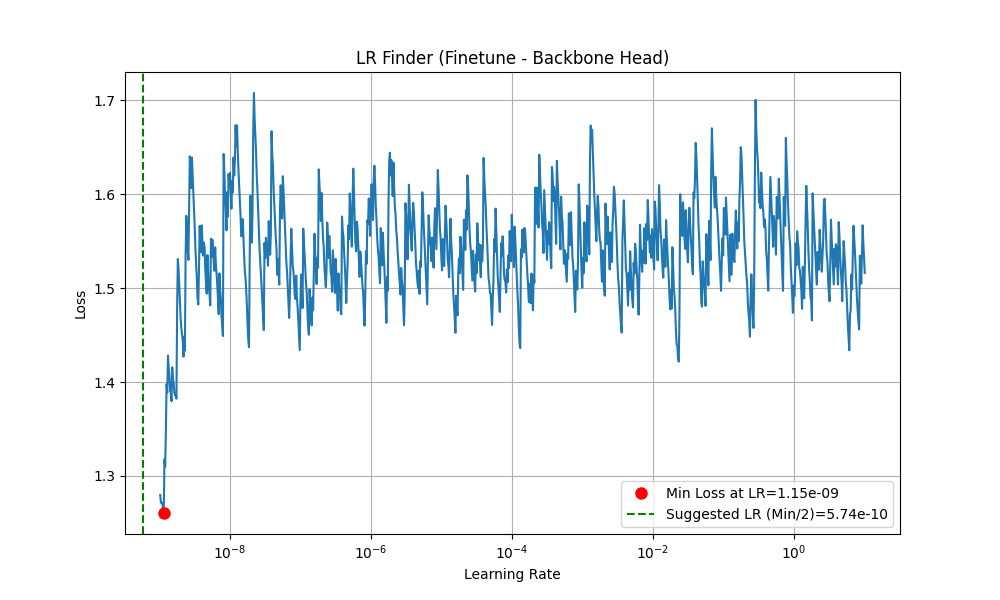
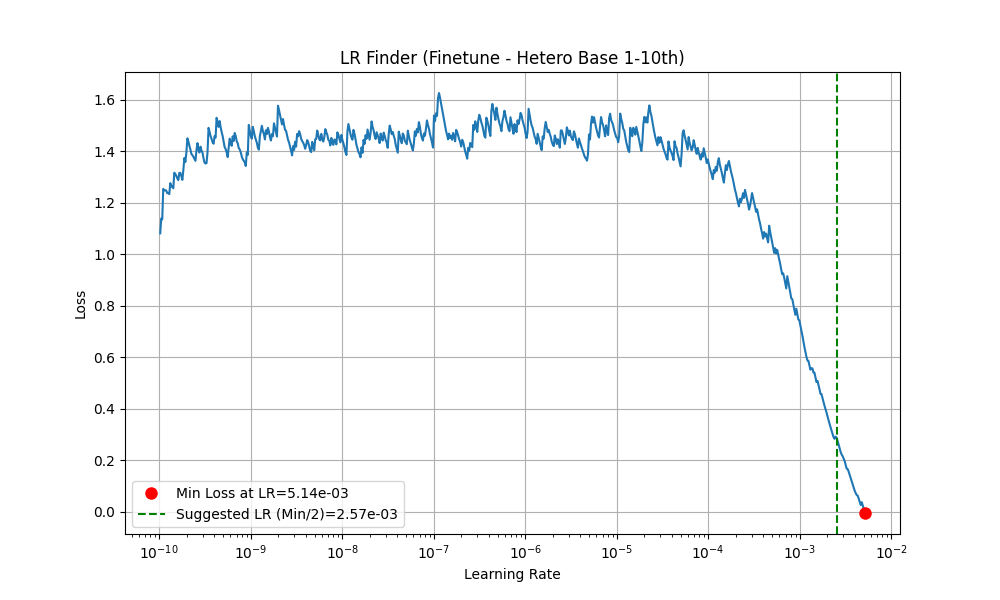
update

diff --git a/src/find_lr_utils.py b/src/find_lr_utils.py
@@ -12,7 +12,6 @@ from ignite.handlers import FastaiLRFinder
 from models.align_hetero import AlignHeteroMLP
 from data_loader import get_data_and_scalers
 from loss_function import heteroscedastic_nll
-from optimizer_utils import create_discriminative_optimizer
 import config
 
 
@@ -110,91 +109,122 @@ def find_pretrain_lr(
     return suggested_lr
 
 
-# src/find_lr_utils.py (替换整个 find_finetune_lr 函数)
-
+# src/find_lr_utils.py
 def find_finetune_lr(
     model_class, model_params, data, pretrained_weights_path: str,
-    lr_hetero: float = config.LEARNING_RATE_HETERO,  # <-- 新增：固定的 Hetero LR
-    gap_ratio: float = config.GAP_RATIO,
-    internal_ratio: float = config.INTERNAL_RATIO,
+    # <<< --- 核心修改：我们只关心这个比例 --- >>>
+    backbone_head_scale: float = config.BACKBONE_HEAD_SCALE,
     end_lr=10.0, num_iter=1000, batch_size=64, device="cuda", save_plot_path: str = None
 ):
     device = torch.device(device if torch.cuda.is_available() else "cpu")
     if not Path(pretrained_weights_path).exists():
         raise FileNotFoundError(f"错误: 未找到预训练模型路径: {pretrained_weights_path}")
 
+    # 1. 加载预训练模型
     original_model = model_class(**model_params).to(device)
     original_model.load_state_dict(torch.load(
         pretrained_weights_path, map_location=device))
 
-    start_lr = 1e-9  # 这将是 lr_backbone_head 的起始值
-
-    # <<< --- 核心修改：使用 v7 优化器 --- >>>
-    print(f"--- [Finetune LR Finder] (v7) ---")
-    print(f"    - 正在搜索: lr_backbone_head (从 {start_lr:.1e} 开始)")
-    print(f"    - 固定: lr_hetero = {lr_hetero:.2e}")
-
-    optimizer = create_discriminative_optimizer(
-        model=original_model,
-        lr_backbone_head=start_lr,       # <-- 搜索目标
-        lr_hetero=lr_hetero,             # <-- 固定值
-        gap_ratio=gap_ratio,
-        internal_ratio=internal_ratio,
-        weight_decay=1e-4
-    )
-
-    def criterion(model_output, y_true): return heteroscedastic_nll(
-        model_output[0], model_output[1], y_true)
-
     X_train, y_train = data['target_train']
-    loader = DataLoader(
+    warmup_loader = DataLoader(
         TensorDataset(torch.tensor(X_train, dtype=torch.float32),
                       torch.tensor(y_train, dtype=torch.float32)),
         batch_size=batch_size, shuffle=True
     )
+
+    # ========== 步骤 1: 预热 Hetero Head (保持不变) ==========
+    print("--- [Finetune LR Finder] (十分之一策略) ---")
+    print(f"--- 步骤 1: 正在预热 Hetero Head (共 20 epochs)... ---")
+    # (预热代码... 保持不变)
+    for param in original_model.backbone.parameters():
+        param.requires_grad = False
+    head_lr = 1e-4
+    optimizer_head = torch.optim.AdamW(
+        original_model.hetero_head.parameters(), lr=head_lr)
+    warmup_epochs = 20
+    original_model.train()
+    for epoch in range(warmup_epochs):
+        for x, y in warmup_loader:
+            x, y = x.to(device), y.to(device)
+            optimizer_head.zero_grad()
+            mu, logvar, _ = original_model(x)
+            loss = heteroscedastic_nll(mu.detach(), logvar, y)
+            if not torch.isnan(loss):
+                loss.backward()
+                optimizer_head.step()
+    for param in original_model.backbone.parameters():
+        param.requires_grad = True
+    print("--- 步骤 1: 预热完成。---")
+
+    # ========== 步骤 2: 手动创建 "十分之一" 优化器 ==========
+    print(f"--- 步骤 2: 正在运行 LR Finder (搜索 lr_hetero)... ---")
+
+    start_lr_hetero = 1e-10  # (一个安全的起始点)
+
+    print(f"    - 正在搜索: lr_hetero (从 {start_lr_hetero:.1e} 开始)")
+    print(f"    - 固定比例: lr_backbone = lr_hetero * {backbone_head_scale}")
+
+    # <<< --- "十分之一策略" 的实现 --- >>>
+    optimizer_params = [
+        {"params": original_model.hetero_head.parameters(), "lr": start_lr_hetero},
+        {"params": original_model.backbone.parameters(
+        ), "lr": start_lr_hetero * backbone_head_scale}
+    ]
+    optimizer = torch.optim.AdamW(optimizer_params, weight_decay=1e-4)
+
+    # (...后续的 trainer, criterion, attach, L型图 分析... 保持不变)
+    def criterion(model_output, y_true):
+        return heteroscedastic_nll(
+            model_output[0], model_output[1], y_true)
+    loader = warmup_loader
     lr_finder = FastaiLRFinder()
     trainer = create_supervised_trainer(
         original_model, optimizer, criterion, device=device,
-        output_transform=lambda x, y, y_pred, loss: loss.item()
+        output_transform=lambda x, y, y_g, loss: loss.item()
     )
     to_save = {"model": original_model, "optimizer": optimizer}
-    print(f"--- [Finetune] 正在运行 LR Finder (共 {num_iter} 步)... ---")
     with lr_finder.attach(
         trainer, to_save=to_save, end_lr=end_lr, num_iter=num_iter
     ) as trainer_with_lr_finder:
         trainer_with_lr_finder.run(loader, max_epochs=1)
 
+    # 4. 分析结果
     results = lr_finder.get_results()
-    lrs_list_of_lists = results["lr"]
+    if isinstance(results["lr"], list) and isinstance(results["lr"][0], list):
+        lrs = [lr_pair[0] for lr_pair in results["lr"]]  # Group 0 (Hetero)
+    else:
+        lrs = results["lr"]
     losses = results["loss"]
 
-    # <<< --- 核心修改：LR 在第 0 组 (Backbone Head) --- >>>
-    head_lrs = [lr_pair[0] for lr_pair in lrs_list_of_lists]
-
-    if not head_lrs or not losses or len(head_lrs) < 5:
-        print("警告: LRFinder未能产生足够的有效数据。")
+    # (过滤 Nan)
+    valid_indices = ~np.isnan(losses)
+    if not np.any(valid_indices):
         return 1e-4
+    lrs = np.array(lrs)[valid_indices]
+    losses = np.array(losses)[valid_indices]
 
     skip_first = 5
-    min_loss_idx = np.argmin(losses[skip_first:]) + skip_first
-    min_loss = losses[min_loss_idx]
-    min_loss_lr = head_lrs[min_loss_idx]
+    if len(losses[skip_first:]) == 0:
+        min_loss_idx = np.argmin(losses)
+    else:
+        min_loss_idx = np.argmin(losses[skip_first:]) + skip_first
 
+    min_loss = losses[min_loss_idx]
+    min_loss_lr = lrs[min_loss_idx]
     suggested_lr = min_loss_lr / 2.0
 
     print(f"--- [Finetune] 自动化分析完成 ---")
     print(f"最小损失 {min_loss:.4e} 出现在 LR={min_loss_lr:.2e}")
-    print(
-        f"自动化建议 (Min Loss / 2 规则): {suggested_lr:.2e} (将用于 lr_backbone_head)")
+    print(f"自动化建议 (Min Loss / 2 规则): {suggested_lr:.2e} (将用于 lr_hetero)")
 
-    _save_plot(head_lrs, losses, suggested_lr, min_loss,
-               "LR Finder (Finetune - Backbone Head)", save_plot_path)
+    _save_plot(lrs, losses, suggested_lr, min_loss,
+               "LR Finder (Finetune - Hetero Base 1-10th)", save_plot_path)
 
     del original_model, optimizer, loader, lr_finder, trainer
     if torch.cuda.is_available():
         torch.cuda.empty_cache()
 
-    # 返回的是 lr_backbone_head
+    # 返回的是 lr_hetero
     return suggested_lr
 
 

diff --git a/src/run_experiments.py b/src/run_experiments.py
@@ -30,74 +30,8 @@ SILENT_TRAINING = False
 # --- 1. 定义你的实验搜索空间 ---
 # ==============================================================================
 BASE_EXPERIMENT_GRID = [
-    {"name": "0.2_G7_I7", "hidden_dims": [128, 256, 256, 512], "dropout_rate": 0.2,
-     "gap_ratio": 7.0, "internal_ratio": 7.0},
-    {"name": "0.2_G8_I8", "hidden_dims": [128, 256, 256, 512], "dropout_rate": 0.2,
-     "gap_ratio": 8.0, "internal_ratio": 8.0},
-    {"name": "0.2_G8_I11", "hidden_dims": [128, 256, 256, 512], "dropout_rate": 0.2,
-     "gap_ratio": 11.0, "internal_ratio": 11.0},
-    {"name": "0.2_G8_I12", "hidden_dims": [128, 256, 256, 512], "dropout_rate": 0.2,
-     "gap_ratio": 12.0, "internal_ratio": 12.0},
-    {"name": "0.2_G8_I13", "hidden_dims": [128, 256, 256, 512], "dropout_rate": 0.2,
-     "gap_ratio": 13.0, "internal_ratio": 13.0},
-    {"name": "0.2_G8_I14", "hidden_dims": [128, 256, 256, 512], "dropout_rate": 0.2,
-     "gap_ratio": 14.0, "internal_ratio": 14.0},
-    {"name": "0.2_G8_I15", "hidden_dims": [128, 256, 256, 512], "dropout_rate": 0.2,
-     "gap_ratio": 15.0, "internal_ratio": 15.0},
-    {"name": "0.2_G8_I16", "hidden_dims": [128, 256, 256, 512], "dropout_rate": 0.2,
-     "gap_ratio": 16.0, "internal_ratio": 16.0},
-    {"name": "0.2_G8_I17", "hidden_dims": [128, 256, 256, 512], "dropout_rate": 0.2,
-     "gap_ratio": 17.0, "internal_ratio": 17.0},
-    {"name": "0.2_G10_I1", "hidden_dims": [128, 256, 256, 512], "dropout_rate": 0.2,
-     "gap_ratio": 10.0, "internal_ratio": 1.0},
-    {"name": "0.2_G10_I1.5", "hidden_dims": [128, 256, 256, 512], "dropout_rate": 0.2,
-     "gap_ratio": 10.0, "internal_ratio": 1.5},
-    {"name": "0.2_G10_I2", "hidden_dims": [128, 256, 256, 512], "dropout_rate": 0.2,
-     "gap_ratio": 10.0, "internal_ratio": 2.0},
-    {"name": "0.2_G10_I2.5", "hidden_dims": [128, 256, 256, 512], "dropout_rate": 0.2,
-     "gap_ratio": 10.0, "internal_ratio": 2.5},
-    {"name": "0.2_G10_I3", "hidden_dims": [128, 256, 256, 512], "dropout_rate": 0.2,
-     "gap_ratio": 10.0, "internal_ratio": 3.0},
-    {"name": "0.2_G10_I4", "hidden_dims": [128, 256, 256, 512], "dropout_rate": 0.2,
-     "gap_ratio": 10.0, "internal_ratio": 4.0},
-    {"name": "0.2_G10_I5", "hidden_dims": [128, 256, 256, 512], "dropout_rate": 0.2,
-     "gap_ratio": 10.0, "internal_ratio": 5.0},
-    {"name": "0.2_G10_I6", "hidden_dims": [128, 256, 256, 512], "dropout_rate": 0.2,
-     "gap_ratio": 10.0, "internal_ratio": 6.0},
-    {"name": "0.2_G10_I7", "hidden_dims": [128, 256, 256, 512], "dropout_rate": 0.2,
-     "gap_ratio": 10.0, "internal_ratio": 7.0},
-    {"name": "0.2_G10_I8", "hidden_dims": [128, 256, 256, 512], "dropout_rate": 0.2,
-     "gap_ratio": 10.0, "internal_ratio": 8.0},
-    {"name": "0.2_G10_I9", "hidden_dims": [128, 256, 256, 512], "dropout_rate": 0.2,
-     "gap_ratio": 10.0, "internal_ratio": 9.0},
-
-
-    # {"name": "0.4_ratio3", "hidden_dims": [
-    #     128, 256, 256, 512], "dropout_rate": 0.4, "backbone_lr_ratio": 3.0},
-    # {"name": "0.4_ratio4", "hidden_dims": [
-    #     128, 256, 256, 512], "dropout_rate": 0.4, "backbone_lr_ratio": 4.0},
-    # {"name": "0.4_ratio5", "hidden_dims": [
-    #     128, 256, 256, 512], "dropout_rate": 0.4, "backbone_lr_ratio": 5.0},
-    # {"name": "0.4_ratio6", "hidden_dims": [
-    #     128, 256, 256, 512], "dropout_rate": 0.4, "backbone_lr_ratio": 6.0},
-    # {"name": "0.4_ratio7", "hidden_dims": [
-    #     128, 256, 256, 512], "dropout_rate": 0.4, "backbone_lr_ratio": 7.0},
-    # {"name": "0.4_ratio8", "hidden_dims": [
-    #     128, 256, 256, 512], "dropout_rate": 0.4, "backbone_lr_ratio": 8.0},
-    # {"name": "0.4_ratio9", "hidden_dims": [
-    #     128, 256, 256, 512], "dropout_rate": 0.4, "backbone_lr_ratio": 9.0},
-    # {"name": "0.4_ratio10", "hidden_dims": [
-    #     128, 256, 256, 512], "dropout_rate": 0.4, "backbone_lr_ratio": 10.0},
-    # {"name": "0.4_ratio11", "hidden_dims": [
-    #     128, 256, 256, 512], "dropout_rate": 0.4, "backbone_lr_ratio": 11.0},
-    # {"name": "0.4_ratio12", "hidden_dims": [
-    #     128, 256, 256, 512], "dropout_rate": 0.4, "backbone_lr_ratio": 12.0},
-    # {"name": "0.4_ratio13", "hidden_dims": [
-    #     128, 256, 256, 512], "dropout_rate": 0.4, "backbone_lr_ratio": 13.0},
-    # {"name": "0.4_ratio14", "hidden_dims": [
-    #     128, 256, 256, 512], "dropout_rate": 0.4, "backbone_lr_ratio": 14.0},
-    # {"name": "0.4_ratio15", "hidden_dims": [
-    #     128, 256, 256, 512], "dropout_rate": 0.4, "backbone_lr_ratio": 15.0},
+    {"name": "0.2_G10_I2_H_x1", "hidden_dims": [128, 256, 256, 512], "dropout_rate": 0.2,
+     "gap_ratio": 10.0, "internal_ratio": 2.0, "hetero_lr_scale": 1.0},
 
 ]
 
@@ -277,18 +211,18 @@ for i, params in enumerate(EXPERIMENT_GRID):
     print("\n--- 步骤 C: 正在寻找最优微调学习率... ---")
     current_gap_ratio = params['gap_ratio']
     current_internal_ratio = params['internal_ratio']
-    current_lr_hetero = params['lr_hetero']
+    current_hetero_scale = params['hetero_lr_scale']
 
     optimal_lr_bb_head = find_finetune_lr(
         AlignHeteroMLP, model_params, data,
         pretrained_weights_path=str(pretrained_model_path),
-        lr_hetero=current_lr_hetero,
+        hetero_lr_scale=current_hetero_scale,
         gap_ratio=current_gap_ratio,
         internal_ratio=current_internal_ratio,
         save_plot_path=str(exp_results_path / "lr_finder_finetune.png")
     )
     print(f"   - 找到的最优 lr_backbone_head: {optimal_lr_bb_head:.2e}")
-    print(f"   - 使用的固定 lr_hetero: {current_lr_hetero:.2e}")
+    print(f"   - 使用的 hetero_lr_scale: {current_hetero_scale}")
 
     # --------------------------------------------------------------------------
     # --- 步骤 D: 运行 Finetune + Evaluate ---
@@ -301,9 +235,8 @@ for i, params in enumerate(EXPERIMENT_GRID):
         "--hidden_dims", str(params['hidden_dims']),
         "--dropout_rate", str(params['dropout_rate']),
 
-        # 传入自动找到的微调LR
         "--lr_backbone_head", str(optimal_lr_bb_head),
-        "--lr_hetero", str(current_lr_hetero),
+        "--hetero_lr_scale", str(current_hetero_scale),
 
         # <<< --- 核心修改：传递 ratio 参数 --- >>>
         "--gap_ratio", str(current_gap_ratio),

diff --git a/src/train.py b/src/train.py
@@ -15,7 +15,6 @@ from data_loader import get_data_and_scalers
 from models.align_hetero import AlignHeteroMLP
 from loss_function import heteroscedastic_nll, batch_r2, coral_loss
 from evaluate import calculate_and_print_metrics
-from optimizer_utils import create_discriminative_optimizer
 import config
 
 # ========== 1. 参数定义与解析 (已更新) ==========
@@ -53,18 +52,12 @@ def setup_args():
     # --- 训练超参数 ---
     parser.add_argument("--lr_pretrain", type=float,
                         default=config.LEARNING_RATE_PRETRAIN, help="学习率")
-    parser.add_argument("--lr_backbone_head", type=float,
-                        default=config.LEARNING_RATE_BB_HEAD,
-                        help="微调阶段 Backbone Head (L5) 的学习率")
     parser.add_argument("--lr_hetero", type=float,
                         default=config.LEARNING_RATE_HETERO,
-                        help="微调阶段 Hetero Head 的学习率")
-    parser.add_argument("--gap_ratio", type=float,
-                        default=config.GAP_RATIO,
-                        help="Head 与 Backbone 顶层之间的学习率比例")
-    parser.add_argument("--internal_ratio", type=float,
-                        default=config.INTERNAL_RATIO,
-                        help="Backbone 内部层与层之间的学习率比例")
+                        help="微调阶段 Hetero Head 的学习率 (基础)")
+    parser.add_argument("--backbone_lr_scale", type=float,
+                        default=config.BACKBONE_LR_SCALE,
+                        help="Backbone 相对于 Hetero Head 的学习率比例 (例如 0.1)")
     parser.add_argument("--epochs_finetune", type=int,
                         default=config.EPOCHS_FINETUNE, help="微调阶段的总轮数")
     parser.add_argument("--batch_a", type=int,
@@ -166,13 +159,19 @@ def run_pretraining(model, train_loader, val_loader, device, args, scheduler_con
 def run_finetuning(model, data_loaders, device, final_save_path, args):
     # ... (函数体与您文件中的完全一致)
     print("\n--- [阶段二] 开始整体模型微调 ---")
+    lr_hetero_base = args.lr_hetero
+    lr_backbone = lr_hetero_base * args.backbone_lr_scale
 
-    opt = create_discriminative_optimizer(
-        model=model,
-        lr_backbone_head=args.lr_backbone_head,
-        lr_hetero=args.lr_hetero,
-        gap_ratio=args.gap_ratio,
-        internal_ratio=args.internal_ratio)
+    print(f"--- [Optimizer] 应用 \"十分之一\" (2-Group) 策略 ---")
+    print(f"    - Hetero Head LR (G0): {lr_hetero_base:.2e}")
+    print(
+        f"    - Backbone LR (G1): {lr_backbone:.2e} (Base * {args.backbone_lr_scale})")
+
+    optimizer_params = [
+        {"params": model.hetero_head.parameters(), "lr": lr_hetero_base},
+        {"params": model.backbone.parameters(), "lr": lr_backbone}
+    ]
+    opt = torch.optim.AdamW(optimizer_params, weight_decay=1e-4)
 
     dl_A, dl_B, dl_val = data_loaders['source_full'], data_loaders['target_train'], data_loaders['target_val']
     dl_A_iter = iter(dl_A)

diff --git a/src/config.py b/src/config.py
@@ -37,10 +37,8 @@ LEARNING_RATE_PRETRAIN = 2.2e-3
 
 EPOCHS_FINETUNE = 100000  # 配合早停
 PATIENCE_FINETUNE = 500
-LEARNING_RATE_BB_HEAD = 1e-4    # 新：Backbone Head 的学习率
-LEARNING_RATE_HETERO = 1e-3     # 新：Hetero Head 的学习率 (默认值设为相同)
-GAP_RATIO = 1.0          # Head 与 Backbone 顶层之间的比例
-INTERNAL_RATIO = 1.0      # Backbone 内部层与层之间的比例
+LEARNING_RATE_FINETUNE = 1e-03
+BACKBONE_HEAD_SCALE = 0.1
 BATCH_A = 128
 BATCH_B = 64  # 线性缩放规则
 
